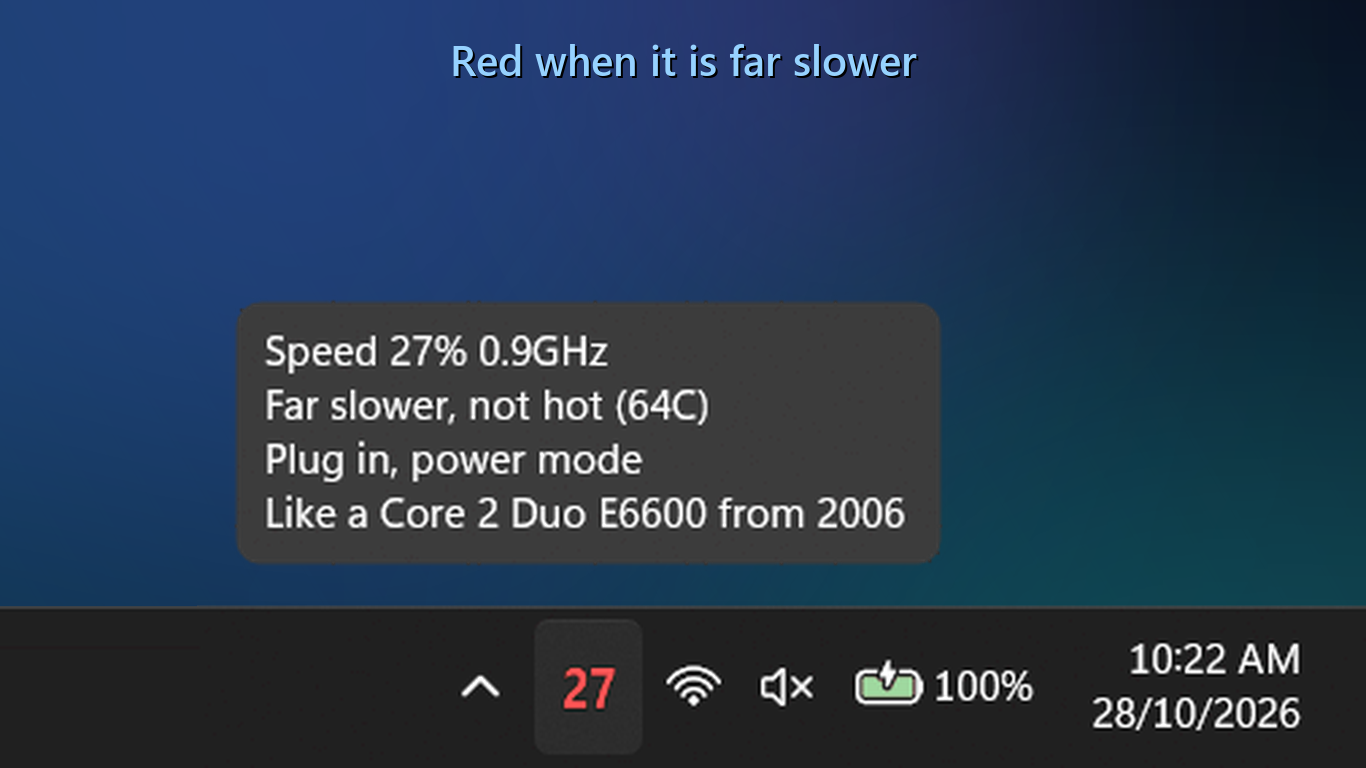
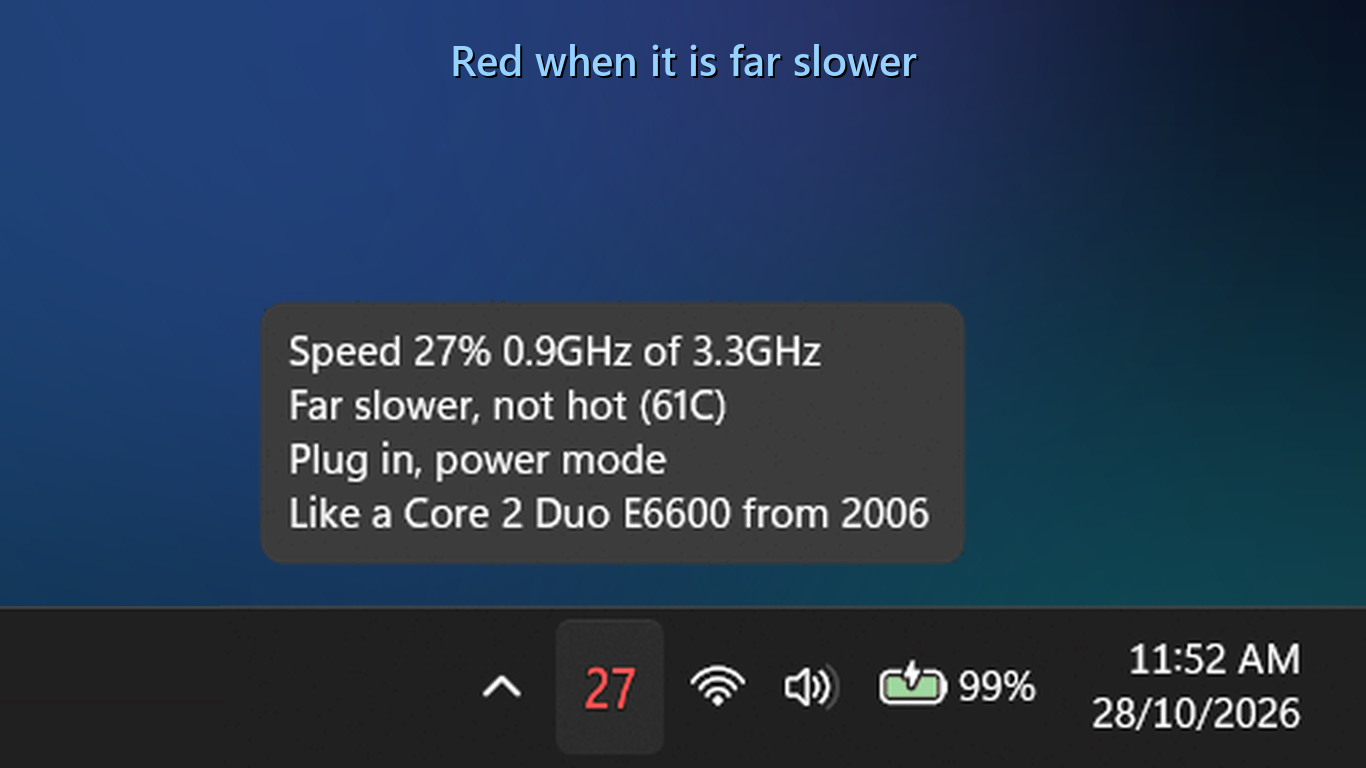
Screenshots: retaken for v2.1 (tooltip shows the rated clock)
Tray (amber, green, red) and menu pictures retaken with the v2.1 exe, in the
minimal tray icon set; hero and Store listing images rebuilt from them.
No exe change: dist/HeatTray.exe is the same file as v2.1.

Claude-Session: https://claude.ai/code/session_01SGbDh1JUVSHN9EJvkUQFny

Changed region(s): [[0.1537, 0.375, 0.7072, 0.75], [0.3382, 0.8438, 0.7687, 0.9375], [0.8302, 0.8438, 0.8917, 0.875]]

diff --git a/store/make-hero.py b/store/make-hero.py
@@ -119,9 +119,9 @@ def tile(img, cx, cy, size):
 
 
 READ = {   # the tooltips the app prints (HeatTray.cs, Render/SlowLines), as captured on 28 Oct 2026
-    "g": ("86", GREEN, ["Speed 86% 2.8GHz of 3.3GHz", "Working hard, all fine", "59C | load 8%"]),
-    "o": ("59", ORANGE, ["Speed 59% 2.0GHz of 3.3GHz", "Slower, not hot (62C)", "Plug in, power mode", "Like a Core i5-2500K from 2011"]),
-    "r": ("27", RED, ["Speed 27% 0.9GHz of 3.3GHz", "Far slower, not hot (64C)", "Plug in, power mode", "Like a Core 2 Duo E6600 from 2006"]),
+    "g": ("86", GREEN, ["Speed 86% 2.8GHz of 3.3GHz", "Working hard, all fine", "61C | load 8%"]),
+    "o": ("59", ORANGE, ["Speed 59% 1.9GHz of 3.3GHz", "Slower, not hot (63C)", "Plug in, power mode", "Like a Core i5-2500K from 2011"]),
+    "r": ("27", RED, ["Speed 27% 0.9GHz of 3.3GHz", "Far slower, not hot (61C)", "Plug in, power mode", "Like a Core 2 Duo E6600 from 2006"]),
 }
 
 
